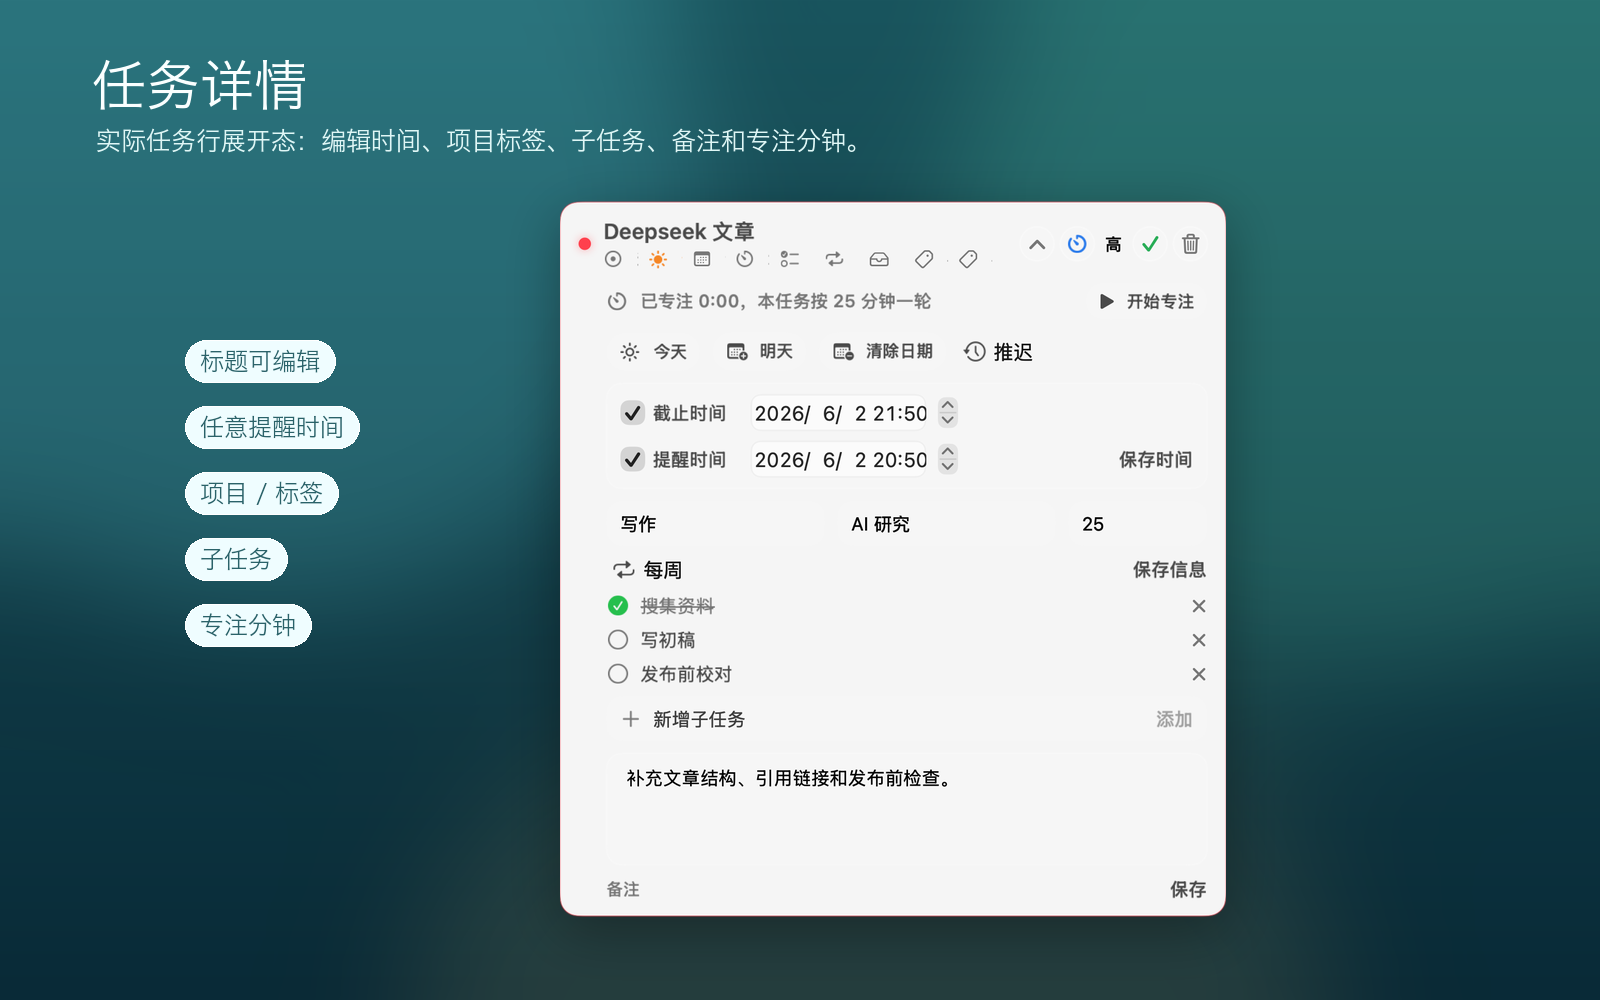
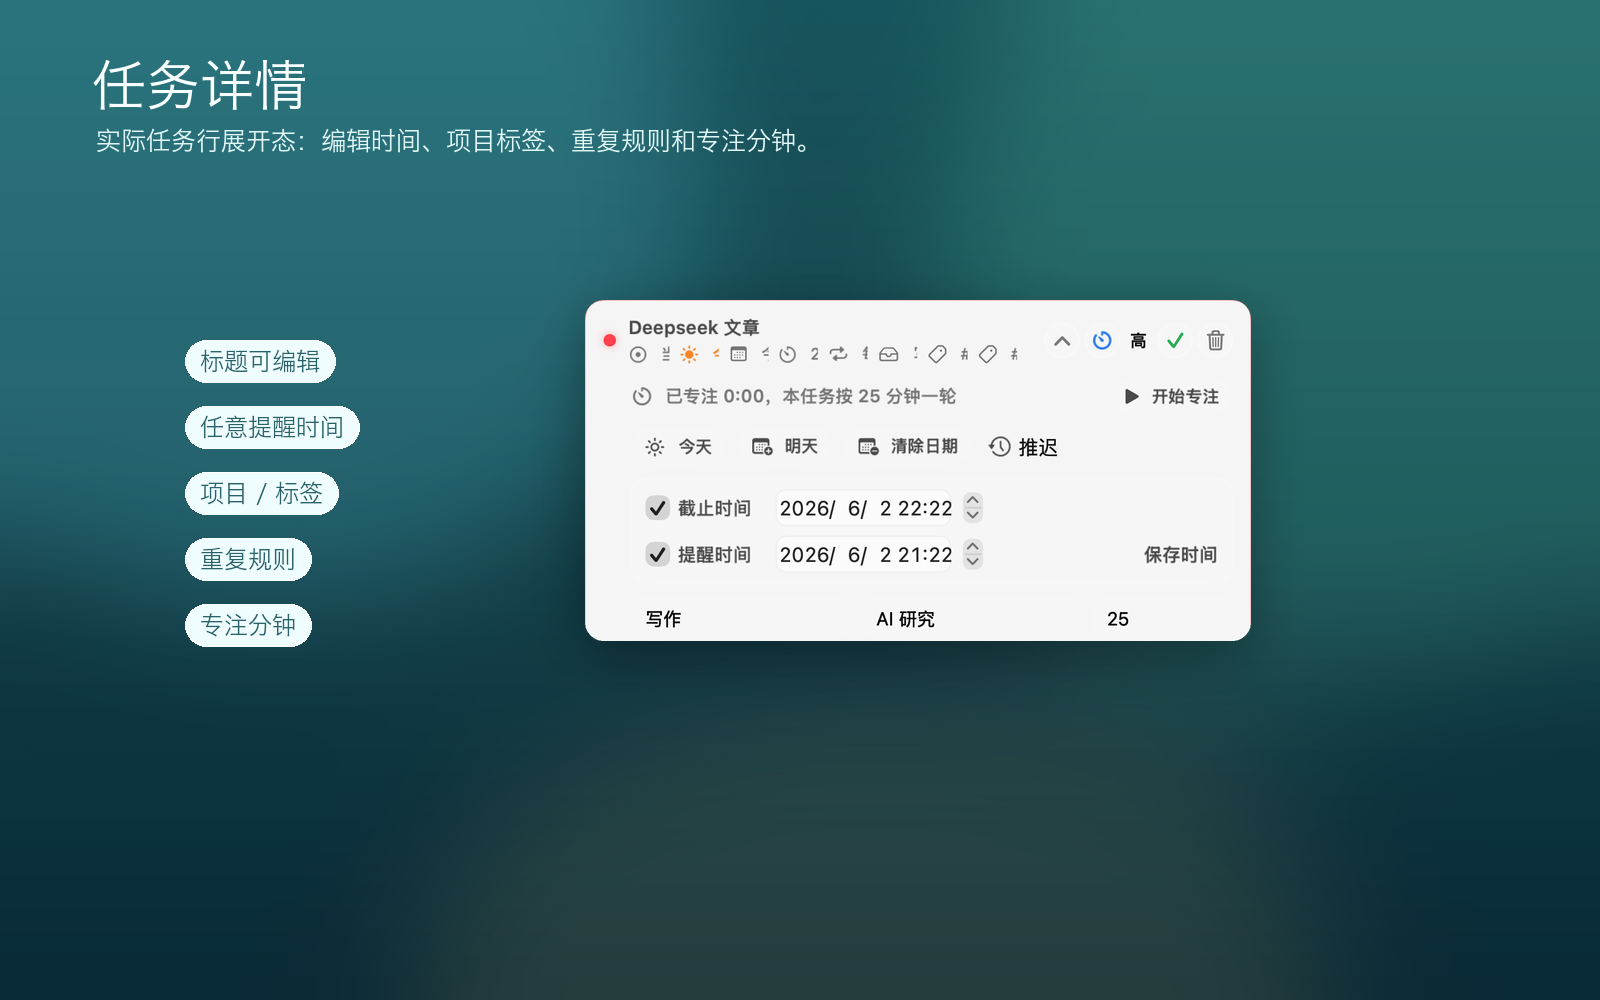
Remove subtask claims from README

diff --git a/Sources/TaskIsland/MarketingAssetRenderer.swift b/Sources/TaskIsland/MarketingAssetRenderer.swift
@@ -134,12 +134,7 @@ enum MarketingAssetRenderer {
             tags: ["AI", "研究"],
             projectName: "写作",
             estimatedMinutes: 25,
-            todaySortIndex: 0,
-            subtasks: [
-                TaskSubtask(title: "搜集资料", isCompleted: true),
-                TaskSubtask(title: "写初稿"),
-                TaskSubtask(title: "发布前校对")
-            ]
+            todaySortIndex: 0
         ) else {
             throw RenderError.demoDataFailed
         }
@@ -147,8 +142,11 @@ enum MarketingAssetRenderer {
         let view = TaskRowView(task: task, initiallyShowingDetails: true)
             .environmentObject(store)
             .environmentObject(makeSettings())
+            .frame(width: 430, alignment: .top)
+            .frame(width: 430, height: 220, alignment: .top)
+            .clipped()
 
-        try render(view, size: CGSize(width: 430, height: 470), padding: 0, to: url)
+        try render(view, size: CGSize(width: 430, height: 220), padding: 0, to: url)
     }
 
     private static func renderSettingsPanel(to url: URL, anchor: TaskPanelSettingsAnchor) throws {

diff --git a/Scripts/generate-posters.py b/Scripts/generate-posters.py
@@ -891,11 +891,11 @@ def render_screenshot_quick_add():
 
 
 def render_screenshot_task_detail():
-    img, draw = screenshot_canvas("任务详情", "实际任务行展开态：编辑时间、项目标签、子任务、备注和专注分钟。")
-    paste_ui_snapshot(img, "task-detail.png", (560, 195), 1.55)
+    img, draw = screenshot_canvas("任务详情", "实际任务行展开态：编辑时间、项目标签、重复规则和专注分钟。")
+    paste_ui_snapshot(img, "task-detail.png", (585, 300), 1.55)
 
     label_y = 340
-    for text in ["标题可编辑", "任意提醒时间", "项目 / 标签", "子任务", "专注分钟"]:
+    for text in ["标题可编辑", "任意提醒时间", "项目 / 标签", "重复规则", "专注分钟"]:
         draw_label(draw, (185, label_y), text)
         label_y += 66
     img.save(SCREENSHOTS / "04-task-detail.png")

diff --git a/README.en.md b/README.en.md
@@ -12,7 +12,7 @@ TaskIsland is a local-first floating task app for macOS. It keeps important task
 - **Current task and focus**: mark any task as current, then use it from the focus card and menu bar. Starting focus moves the island into medium mode with pause, resume, and stop controls.
 - **Quick add**: press the default `Control + Option + N` shortcut and type natural language such as `tomorrow 10:00 weekly report #work !high /30m`.
 - **Task panel views**: All, Today, Suggestions, High Priority, Upcoming, No Date, Tags, Projects, Completed, and Review.
-- **Rich task details**: notes, arbitrary due date, arbitrary reminder time, repeat rule, project, tags, subtasks, estimated focus minutes, postpone, and “set as current”.
+- **Rich task details**: notes, arbitrary due date, arbitrary reminder time, repeat rule, project, tags, estimated focus minutes, postpone, and “set as current”.
 - **Custom appearance**: dark glass mode, island transparency, background color, text color, priority colors, top position, and drag placement.
 - **Local-first data**: SwiftData storage, no account required; JSON, Markdown, and CSV import / export.
 - **macOS integration**: Apple Reminders import / export, local notifications, `taskisland://` URL Scheme, and installer login-start configuration.
@@ -42,7 +42,7 @@ Quick add supports natural-language input for dates, times, priorities, tags, an
 
 ![Task details](assets/screenshots/04-task-detail.png)
 
-Each task supports title editing, notes, due time, reminder time, repeat rule, project, tags, subtasks, postponing, “set as current”, and per-task focus minutes.
+Each task supports title editing, notes, due time, reminder time, repeat rule, project, tags, postponing, “set as current”, and per-task focus minutes.
 
 ### Task Views
 
@@ -120,7 +120,7 @@ The `.pkg` installer places `任务岛.app` in `/Applications`, registers it wit
 swift run TaskIslandChecks
 ```
 
-The check target covers task creation, completion, deletion, recurrence, priority, date parsing, focus timing, subtasks, import / export, and Todoist-style CSV import.
+The check target covers task creation, completion, deletion, recurrence, priority, date parsing, focus timing, import / export, and Todoist-style CSV import.
 
 ## URL Scheme
 

diff --git a/README.md b/README.md
@@ -12,7 +12,7 @@
 - **当前任务与专注**：用户可把任意任务设为当前任务，顶部专注栏和菜单栏会围绕它工作；开始专注后进入中等悬浮岛，支持暂停、继续和停止。
 - **快速新增**：默认 `Control + Option + N` 打开快速新增面板，支持自然语言输入，例如 `明天 10点 发周报 #工作 !高 /30m`。
 - **任务面板**：支持全部、今天、建议、高优、即将、无日期、标签、项目、已完成和回顾视图。
-- **任务详情**：支持备注、任意截止时间、任意提醒时间、重复规则、项目、标签、子任务、预计专注分钟、推迟、设为当前。
+- **任务详情**：支持备注、任意截止时间、任意提醒时间、重复规则、项目、标签、预计专注分钟、推迟、设为当前。
 - **可自定义外观**：支持暗夜玻璃模式、悬浮岛透明度、背景颜色、文字颜色、优先级颜色、顶部位置和拖拽摆放。
 - **本地优先**：使用 SwiftData 本地存储，不依赖账号；支持 JSON、Markdown、CSV 导入导出。
 - **系统集成**：支持 Apple 提醒事项导入/导出、本地通知、`taskisland://` URL Scheme、登录启动安装配置。
@@ -42,7 +42,7 @@
 
 ![任务详情](assets/screenshots/04-task-detail.png)
 
-单条任务支持标题编辑、备注、截止时间、提醒时间、重复规则、项目、标签、子任务、推迟、设为当前和单独的专注分钟。
+单条任务支持标题编辑、备注、截止时间、提醒时间、重复规则、项目、标签、推迟、设为当前和单独的专注分钟。
 
 ### 任务视图
 
@@ -120,7 +120,7 @@ open dist/TaskIsland-0.1.0.dmg
 swift run TaskIslandChecks
 ```
 
-检查脚本覆盖任务新增、完成、删除、循环、优先级、日期解析、专注计时、子任务、导入导出和 Todoist 风格 CSV 导入等规则。
+检查脚本覆盖任务新增、完成、删除、循环、优先级、日期解析、专注计时、导入导出和 Todoist 风格 CSV 导入等规则。
 
 ## URL Scheme
 